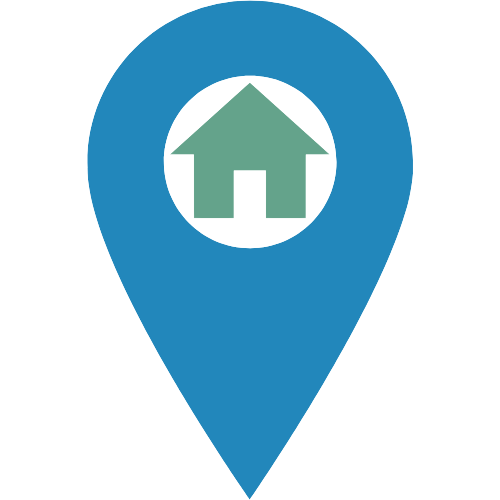
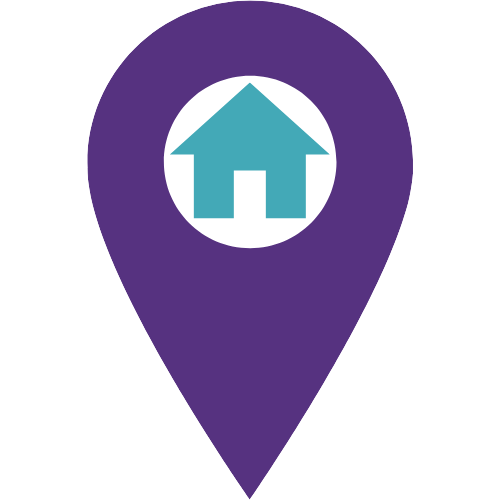
update custom markers

diff --git a/src/main/resources/static/js/views/Home.js b/src/main/resources/static/js/views/Home.js
@@ -87,7 +87,7 @@ function initMap(lng, lat) {
         });
         map.scrollZoom.disable();
         addUserMarkersToMap(geoJson, map);
-        addUserMarkersToMap(currentUserGeoJson, map);
+        addActiveUserMarkersToMap(currentUserGeoJson, map);
     })
 }
 
@@ -321,4 +321,23 @@ function createGeoJsonForActiveUser() {
         }
     })
     return currentUserGeoJson
+}
+
+function addActiveUserMarkersToMap(geoJsonData, map) {
+    for (const feature of geoJsonData.features) {
+// create a HTML element for each feature
+        const el = document.createElement('div');
+        el.className = 'current-user-marker';
+
+// make a marker for each feature and add it to the map
+        new mapboxgl.Marker(el)
+            .setLngLat(feature.geometry.coordinates)
+            .setPopup(
+                new mapboxgl.Popup({offset: 25}) // add popups
+                    .setHTML(
+                        `<h3>${feature.properties.title}</h3>`
+                    )
+            )
+            .addTo(map);
+    }
 }
